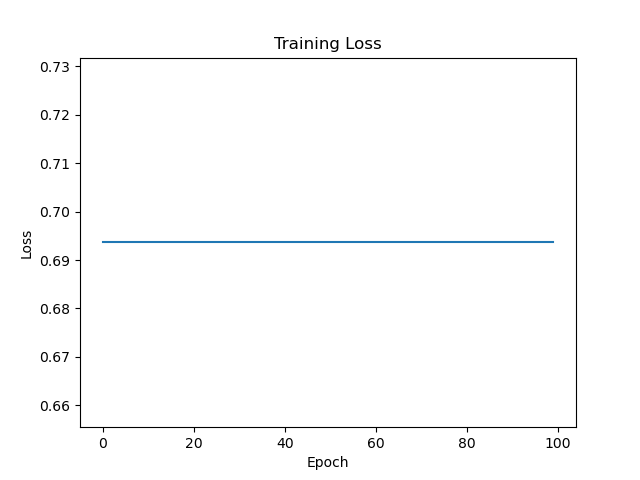
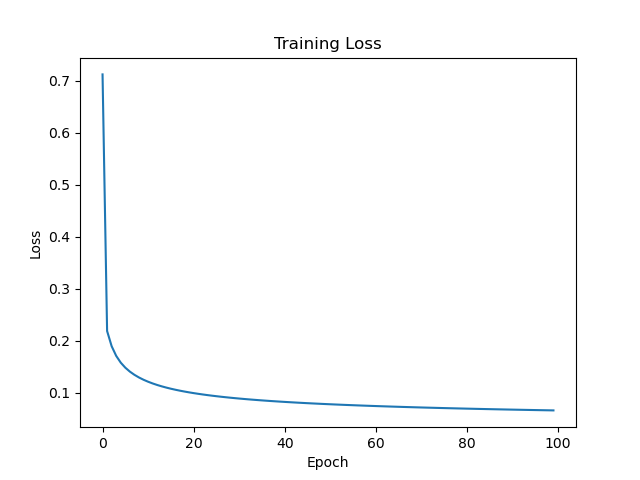
working logistic regression with weights and bias

diff --git a/lreg.py b/lreg.py
@@ -1,12 +1,12 @@
 # logistic regression from scratch
 import numpy as np
 import matplotlib.pyplot as plt
-from sklearn.linear_model import LogisticRegression
 from engine import tensor
 import sklearn.datasets
+import math
 
 class LogisticRegressor:
-    def __init__(self, lr=0.01, epochs=100, regularization=None):
+    def __init__(self, lr=0.001, epochs=100, regularization=None):
         self.weights = None
         self.bias = None
         self.loss = []
@@ -14,17 +14,24 @@ class LogisticRegressor:
         self.epochs = epochs
 
     def sigmoid(self, x):
-        # x is a tensor
-        return tensor(1 / (1 + np.exp(-x.data)))
+        # verify that x is a tensor
+        x = x if isinstance(x, tensor) else tensor(x)
+        # create ones array to match shape of x
+        ones = tensor(np.ones(x.data.shape))
+        # compute sigmoid
+        return ones / (ones + (-x).exp())
+        
         
     def fit(self, x, y):
         # initialize weights and bias
         weights = np.random.randn(x.shape[1], 1) * 0.01
         weights = tensor(weights)
-        bias = np.zeros(1)
-        bias = tensor(bias)
-
+        # make bias the same shape as x
+        bias = tensor(np.zeros(x.shape[0]).reshape(-1, 1))
+        # convert x and y to tensors
         x = tensor(x)
+        # reshape y to be a column vector
+        y = y.reshape(-1, 1)
         y = tensor(y)
 
         # train model
@@ -42,13 +49,14 @@ class LogisticRegressor:
 
             #update weights
             weights.data -= weights.grad * self.lr
+            #take the means across the rows of bias
             bias.data -= bias.grad * self.lr
             
             # zero out gradients
             weights.grad *= 0
             bias.grad *= 0
 
-            print(f"Epoch {i}: Training loss = {loss.data.mean()}")
+            print(f"Epoch {i}: Training loss = {loss.data.mean()}") 
 
         self.weights = weights
         self.bias = bias
@@ -71,7 +79,7 @@ x, y = sklearn.datasets.load_breast_cancer(return_X_y=True)
 x = (x - x.mean(axis=0)) / x.std(axis=0)
 
 # train model
-model = LogisticRegressor(lr=0.01, epochs=100)
+model = LogisticRegressor(lr=0.001, epochs=100)
 model.fit(x, y)
 
 # plot loss

diff --git a/engine.py b/engine.py
@@ -1,5 +1,6 @@
 import numpy as np
 import torch
+import math
 
 # Ideas to work on. Expand functionalities for other functions. Abstract away _backward
 # member functions so that we can just read from a derivatives.yaml file like pytorch. 
@@ -52,11 +53,21 @@ class tensor:
     
     def __pow__(self, val):
         if not isinstance(val, (int, float)):
-            return "exponent must be a float or int"
+            print("exponent must be a float or int")
+            return None
+        
         out = tensor(self.data**val, [self], True, '^')
 
         def _backward():
             self.grad += out.grad * (val * self.data**(val-1))
+        out._backward = _backward
+        return out
+    
+    # support exp e ** tensor 
+    def exp(self):
+        out = tensor(math.e**self.data, [self], True, 'exp')
+        def _backward():
+            self.grad += out.grad * (math.e**self.data)
         out._backward = _backward
         return out
     
@@ -180,7 +191,7 @@ def test1():
     output2.backward()
 
     print(f"Pytorch w1 gradient: {w12._grad}")
-    print(f"Pytroch w2 gradient: {w22._grad}")
+    print(f"Pytorch w2 gradient: {w22._grad}")
 
 # Test 2 will check for exponents, subtraction, and sin
 def test2():
@@ -233,6 +244,6 @@ def test2():
     output2.backward()
 
     print(f"Pytorch w1 gradient: {w12._grad}")
-    print(f"Pytroch w2 gradient: {w22._grad}")
+    print(f"Pytorch w2 gradient: {w22._grad}")
 
 test2()

diff --git a/nnet.py b/nnet.py
@@ -60,7 +60,7 @@ class nnet:
         plt.title("Training Loss")
         plt.xlabel("Epoch")
         plt.ylabel("Loss")
-        plt.show()
+        # plt.show()
         plt.savefig("loss.png")
 
 # Create a neural network model and test
